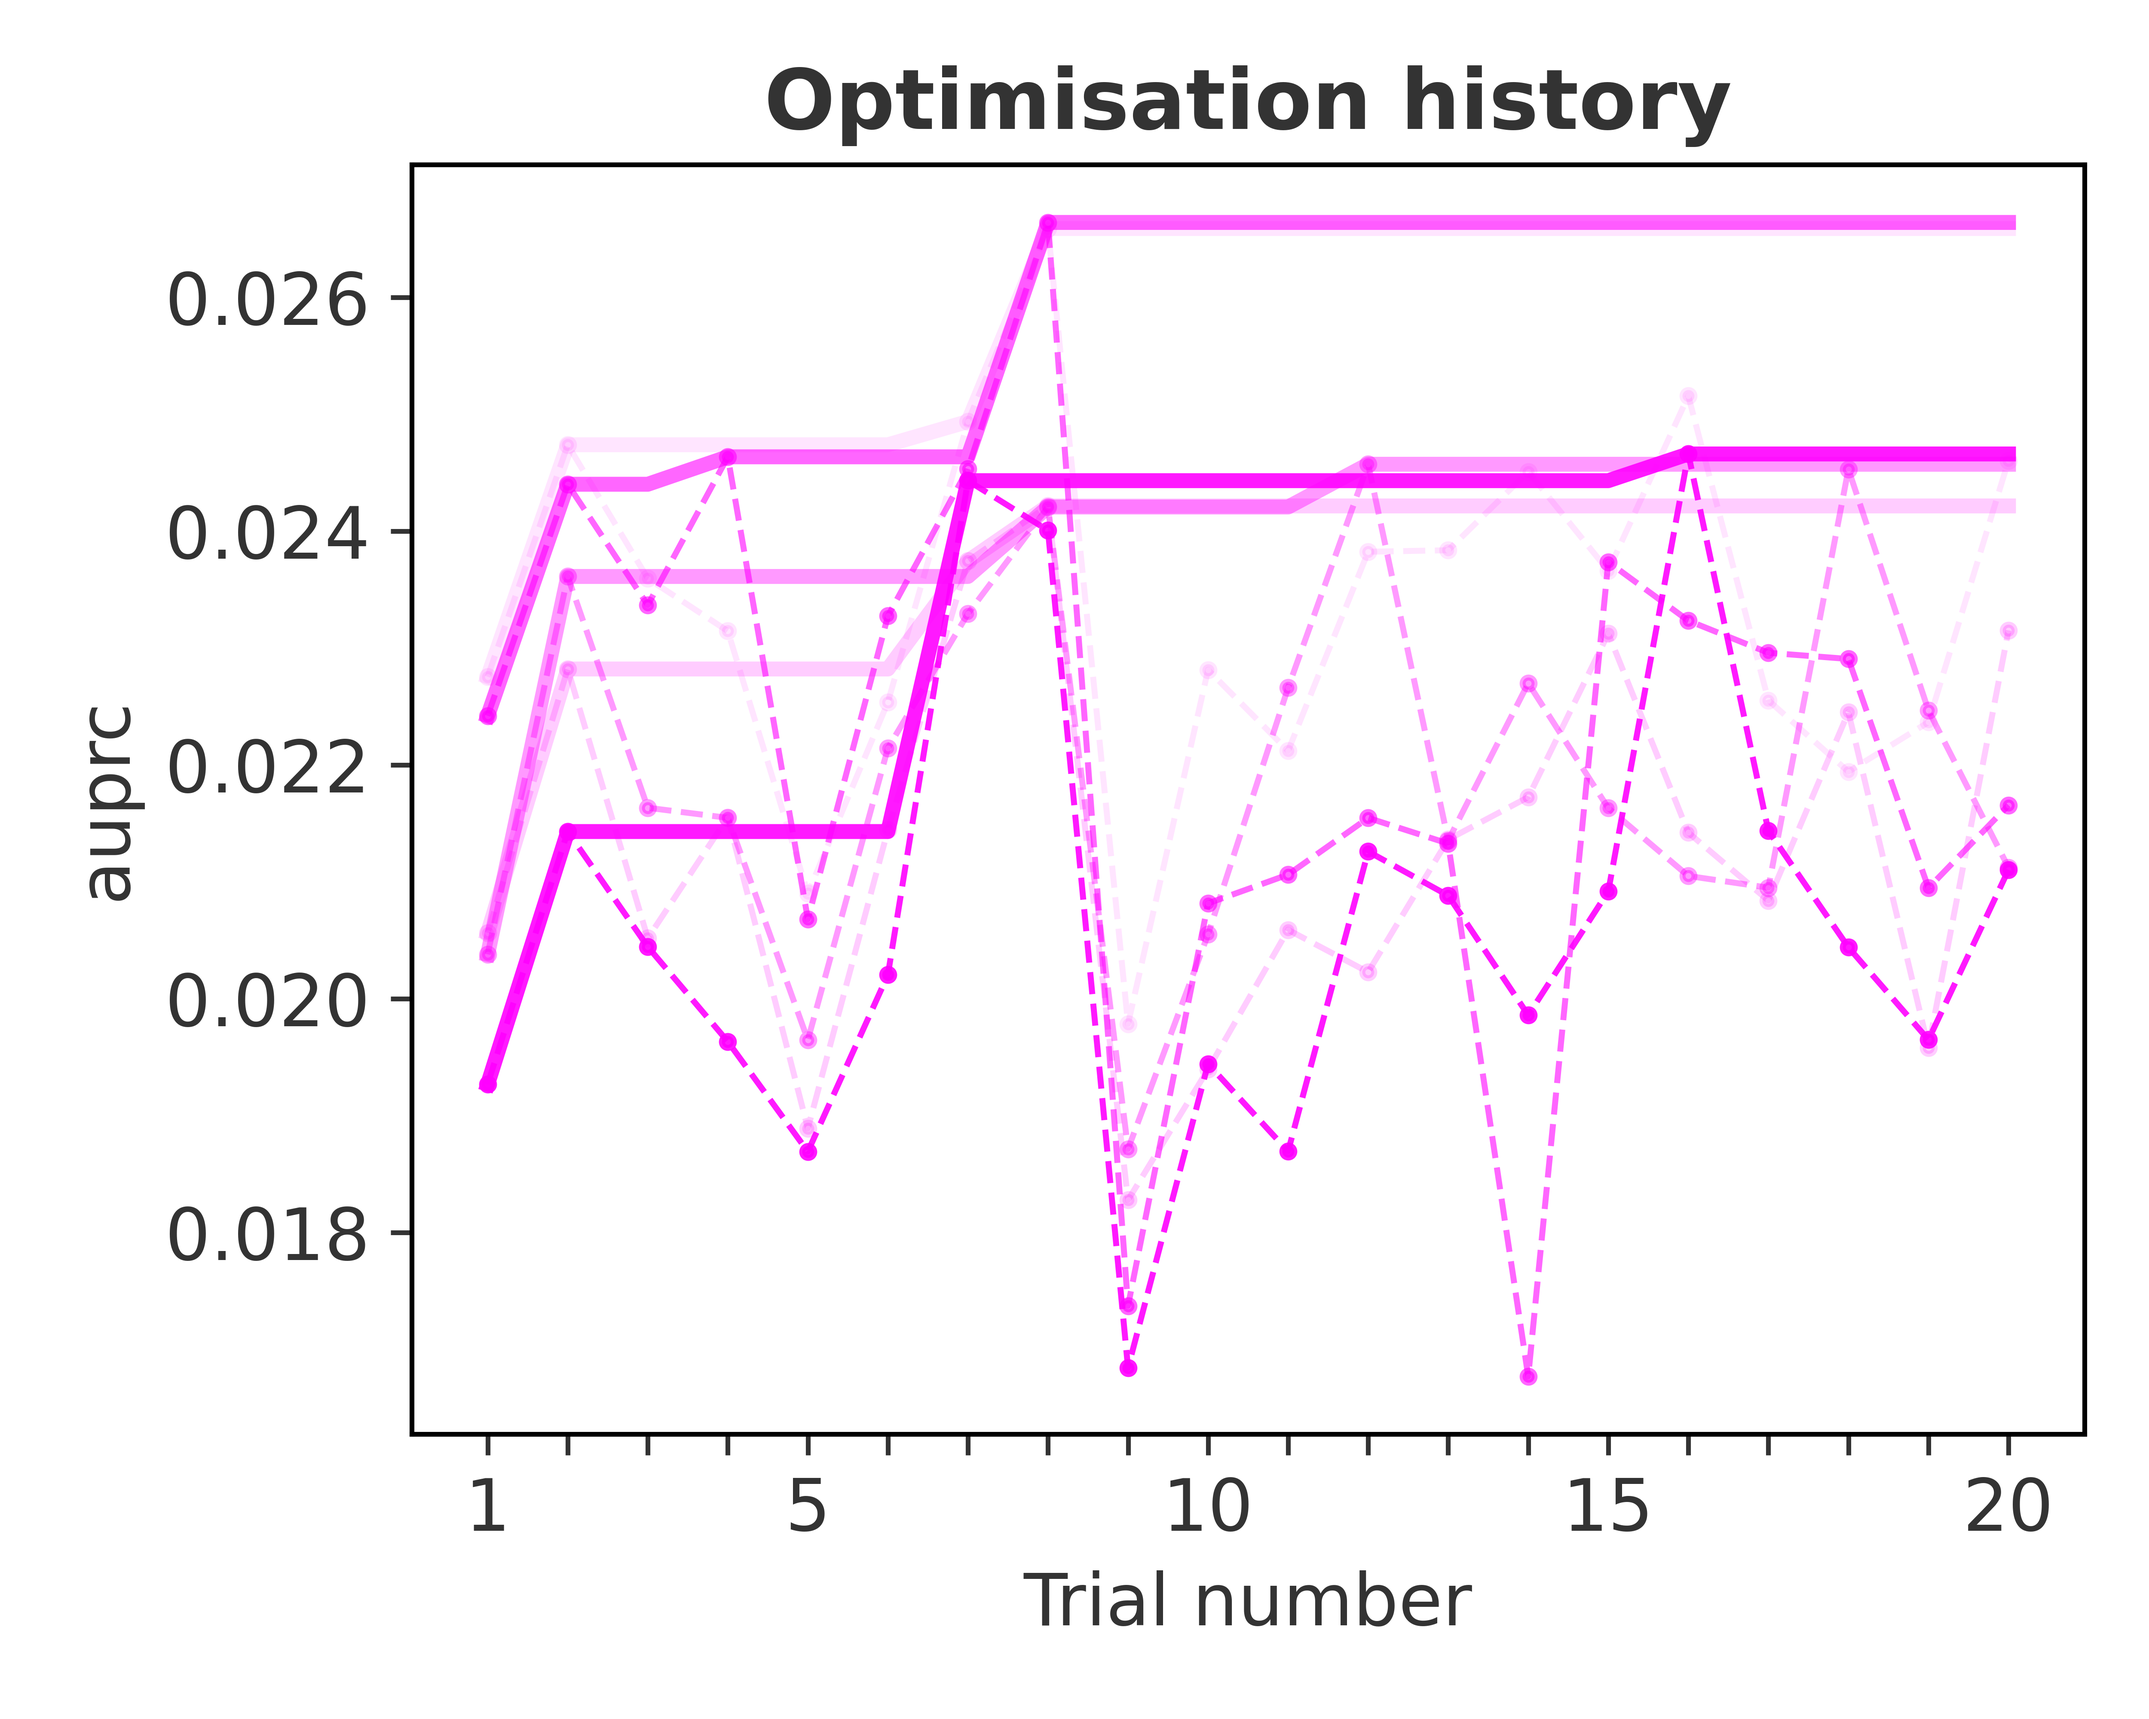
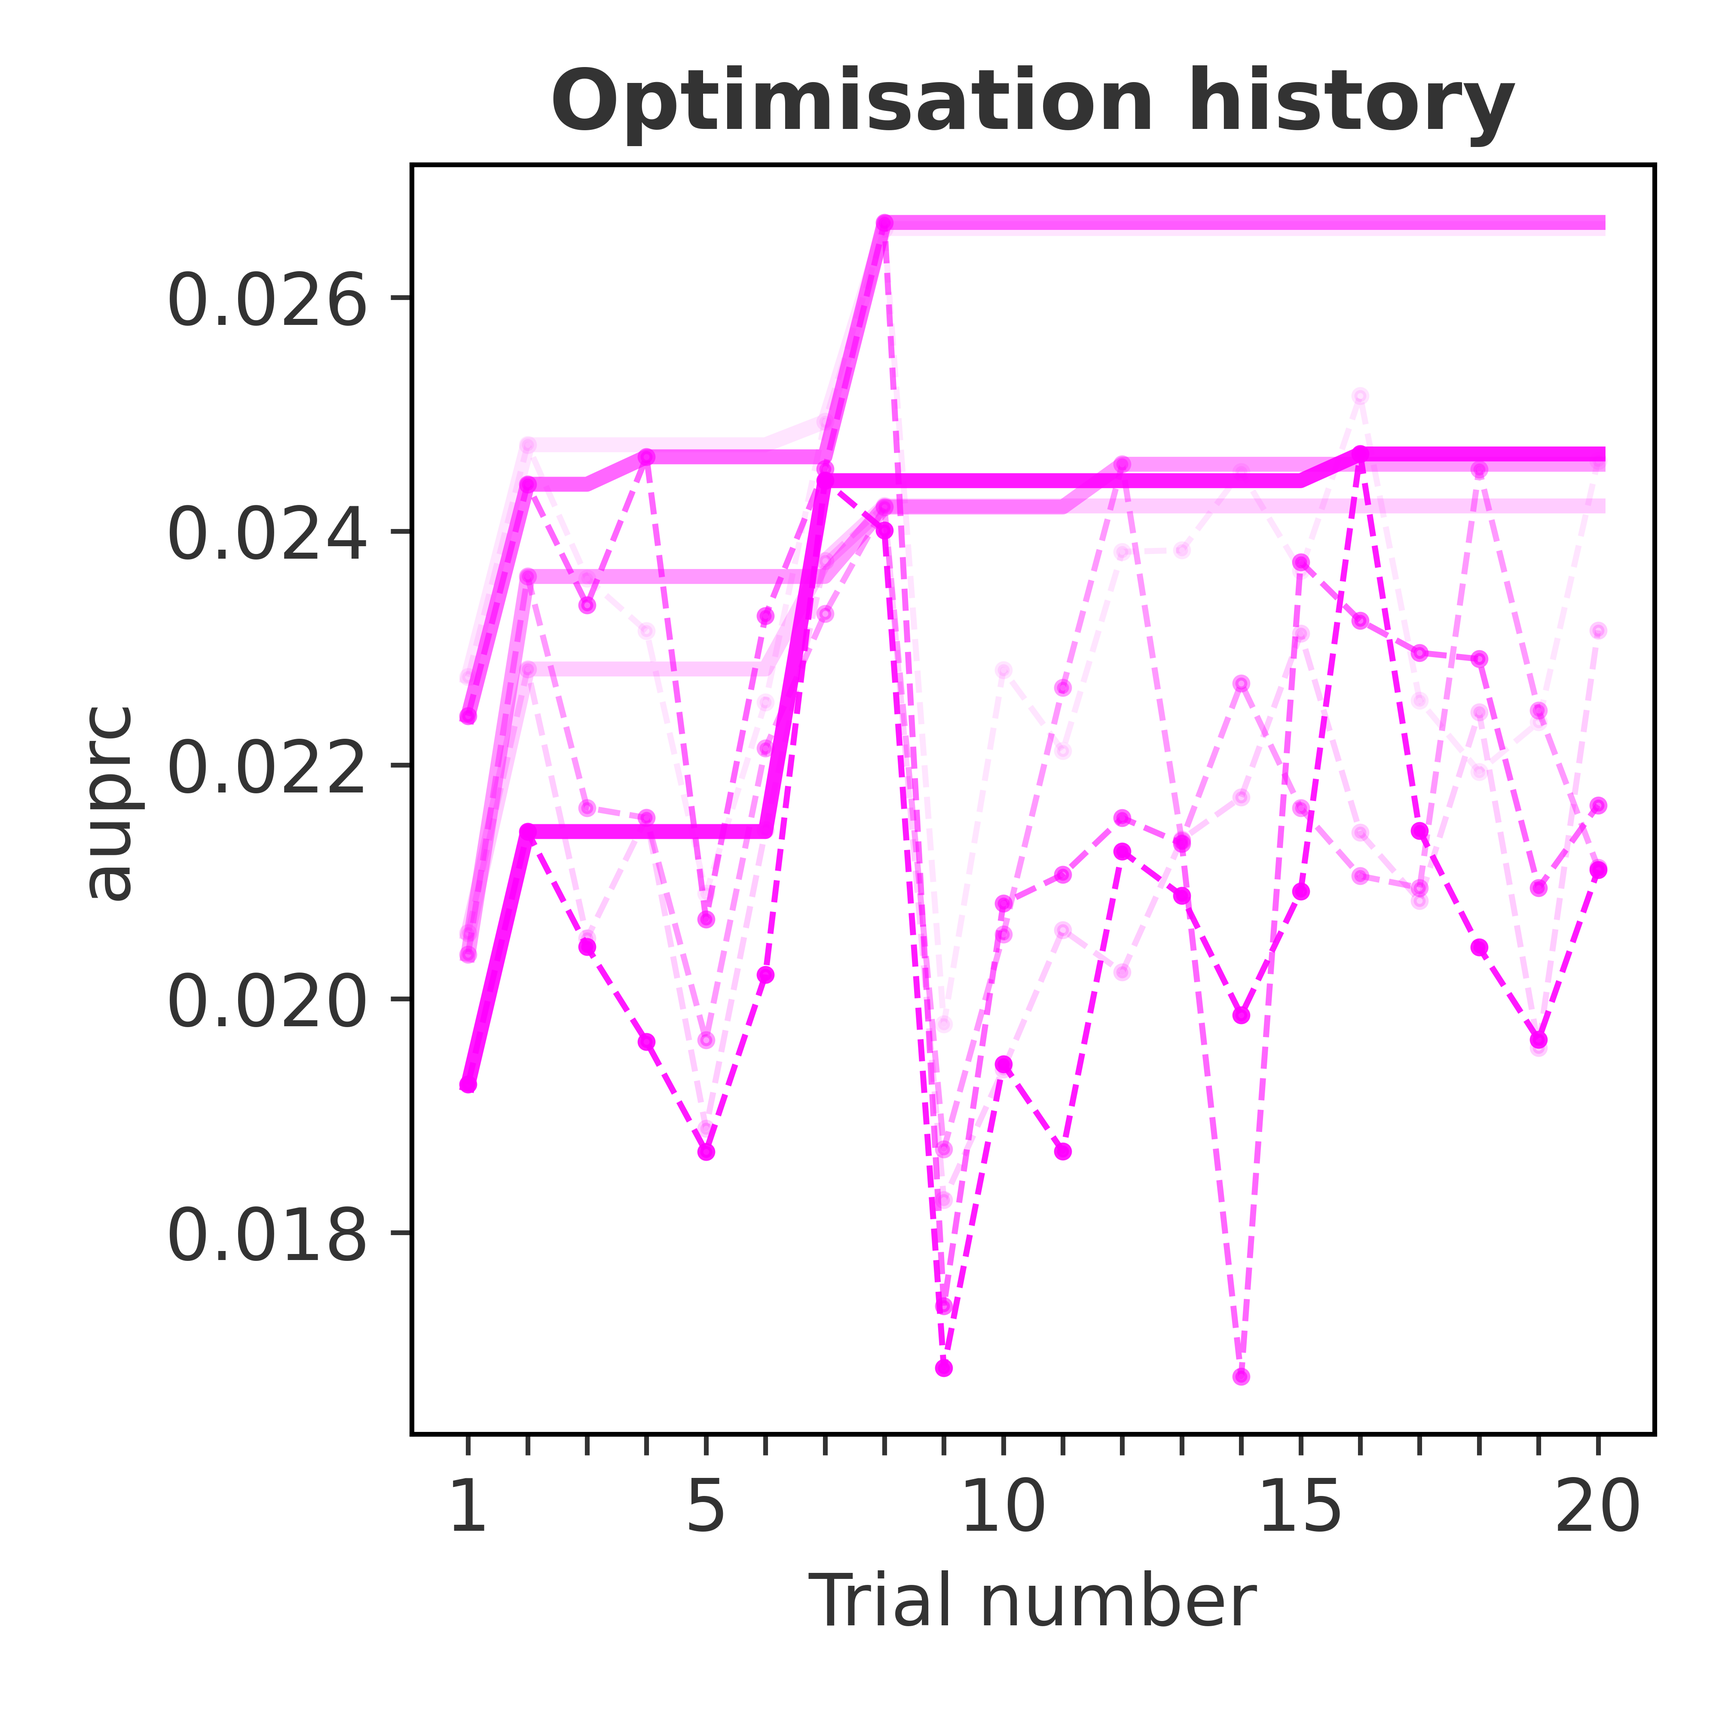
Improved optuna optimisation outcomes plots.

diff --git a/code/plot/22_prob_ff_hydro_short_fc_cv_optuna.py b/code/plot/22_prob_ff_hydro_short_fc_cv_optuna.py
@@ -2,7 +2,6 @@ import os
 import numpy as np
 import pandas as pd
 import matplotlib.pyplot as plt
-from matplotlib.ticker import MaxNLocator
 
 ######################################################################################
 # CODE DESCRIPTION
@@ -10,7 +9,7 @@ from matplotlib.ticker import MaxNLocator
 
 # Usage: python3 22_prob_ff_hydro_short_fc_cv_optuna.py
 
-# Runtime: ~ 3 minutes.
+# Runtime: ~ 1 minute.
 
 # Author: Fatima M. Pillosu <fatima.pillosu@ecmwf.int> | ORCID 0000-0001-8127-0990
 # License: Creative Commons Attribution-NonCommercial_ShareAlike 4.0 International
@@ -168,7 +167,7 @@ for ind_ml, ml_trained in enumerate(ml_trained_list):
       
       colours_ml_trained = colours_ml_trained_list[ind_ml]
       dir_in_temp = f'{git_repo}/{dir_in}/{eval_metric}/{ml_trained}/optuna'
-      plt.figure(figsize=(5, 4))
+      plt.figure(figsize=(4, 4))
 
       alpha = [0.1, 0.2, 0.4, 0.6, 0.9]
       for ind_k in range(num_k_outer):
